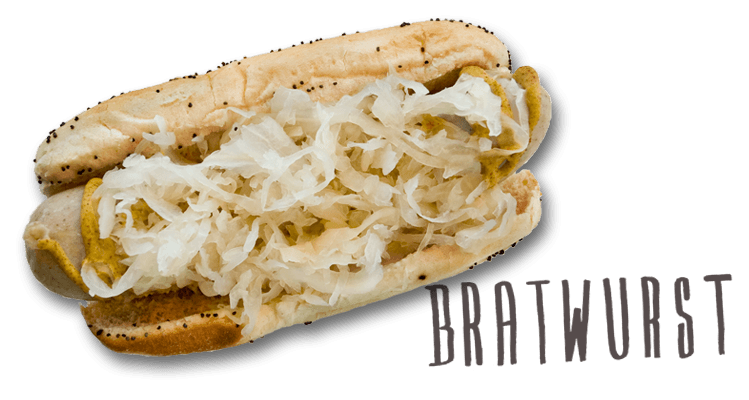
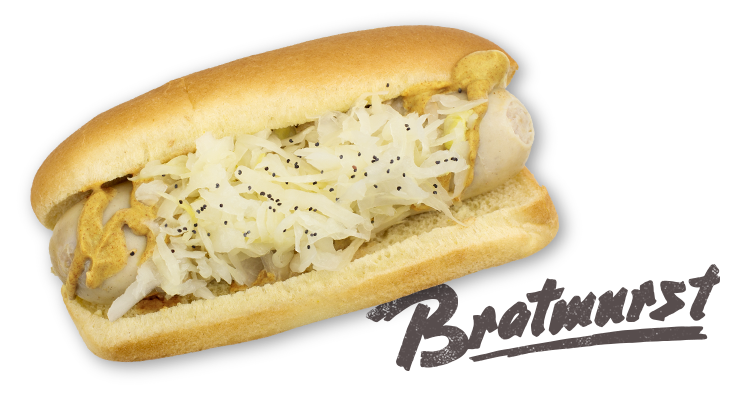
switched out sausage slider image and doggie style image appears behind hotdogs in slider

diff --git a/stylesheets/app.css b/stylesheets/app.css
@@ -3942,7 +3942,7 @@ h3 {
     position: absolute;
     bottom: -23px;
     left: 100px;
-    z-index: 2; }
+    z-index: 1; }
   [data-template="home"] #intro p {
     margin-top: 40px;
     padding: 1.25rem 0.9375rem; }

diff --git a/scss/_styles.scss b/scss/_styles.scss
@@ -335,7 +335,7 @@ h3 {
         position: absolute;
         bottom: -23px;
         left: 100px;
-        z-index: 2;
+        z-index: 1;
       }
     }
     #intro p {
